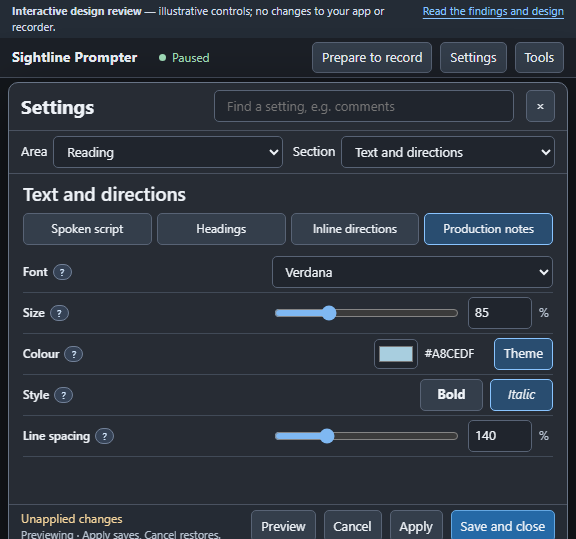
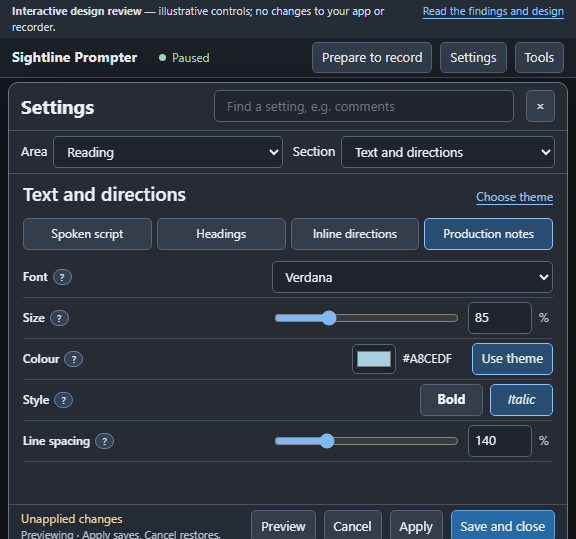
docs: make prototype theme selection and colour reset explicit

Changed region(s): [[0.0312, 0.3562, 0.9688, 0.8609], [0.9375, 0.8015, 0.9688, 0.8312], [0.9375, 0.564, 0.9688, 0.5937]]

diff --git a/docs/design/settings-and-tools-prototype.html b/docs/design/settings-and-tools-prototype.html
@@ -13,6 +13,7 @@
 @media(max-height:670px){.prepare-list{grid-template-columns:1fr 1fr;margin-top:10px}.prepare-step{min-height:64px;gap:6px;padding:7px 9px}.prepare-step .step-state{font-size:11px}.prepare-step .open-label{font-size:11px}}
 @media(max-height:560px){.review-note{min-height:24px;padding:3px 12px;font-size:11px}.appbar{height:40px;padding:4px 12px}.stage{top:64px}.workspace{height:calc(100vh - 64px);padding:4px 8px}.dialog-header{height:48px;flex-basis:48px;padding:6px 12px}.dialog-footer{height:44px;flex-basis:44px;padding:6px 12px}.compact-navigation{flex-basis:43px;padding:5px 12px}.content{padding:8px 14px}.targets{margin:5px 0 7px}.tools{padding:10px}.tool-grid button{min-height:44px}.tools-sub{margin-bottom:7px}.tools-link{margin-top:7px}}
 @media(max-width:560px){.workspace{padding:8px}.review-note{font-size:11px;padding:6px 10px}.review-note a{display:none}.brand{font-size:12px;margin-right:0}.appbar{padding:7px 10px;gap:5px}.appbar .secondary{display:none}.dialog-header{gap:8px}.search{width:190px}.content{padding:10px 12px}.control-row{grid-template-columns:minmax(110px,1fr) minmax(145px,1.35fr);gap:8px}.targets button{font-size:11px;padding:5px 4px}.targets{gap:3px}.hex{display:none}.control-value{gap:5px}.control-value input[type=number]{width:56px;min-width:56px}.dialog-footer{gap:5px}.dialog-footer button{padding:5px 7px;font-size:12px}.save-state{font-size:11px}.save-state small{display:none}.compact-navigation{padding:7px 10px;gap:7px}.compact-navigation label{font-size:11px}.tools{right:12px}.tools .control-row{grid-template-columns:105px 1fr}}
+.theme-link{min-height:0;padding:0;border:0;border-radius:0;background:transparent;color:var(--accent);text-decoration:underline;text-underline-offset:3px}.theme-link:hover{background:transparent;color:var(--text)}.section-heading{display:flex;align-items:baseline;justify-content:space-between;gap:12px}.section-heading .theme-link{flex-shrink:0;font-size:12px}
 @media(prefers-reduced-motion:reduce){*{scroll-behavior:auto!important}}
 </style>
 </head>
@@ -35,7 +36,7 @@
 <script>
 const areas=[
  {id:'prepare',name:'Prepare to record',sections:[['checklist','Recording setup']]},
- {id:'reading',name:'Reading',sections:[['mode','Mode and pace'],['typography','Text and directions'],['background','Background'],['layout','Layout'],['aids','Reading aids'],['screens','Screens and mirroring'],['guide','Head guide']]},
+ {id:'reading',name:'Reading',sections:[['mode','Mode and pace'],['typography','Text and directions'],['background','Theme and background'],['layout','Layout'],['aids','Reading aids'],['screens','Screens and mirroring'],['guide','Head guide']]},
  {id:'voice',name:'Voice',sections:[['engine','Speech engine'],['microphone','Microphone'],['commands','Commands'],['words','Your words']]},
  {id:'recording',name:'Recording',sections:[['takes','Takes'],['sound','Sound check'],['sync','Slate and sync'],['obs','OBS connection'],['obs-recording','OBS recording'],['obs-setup','OBS setup']]},
  {id:'controls',name:'Controls',sections:[['pad','Pad and phone'],['pairing','Phone pairing'],['mappings','Buttons and keys'],['streamdeck','Stream Deck'],['api','AI and API']]},
@@ -45,8 +46,14 @@ const areas=[
 ];
 const targets=[['script','Spoken script'],['headings','Headings'],['inline','Inline directions'],['production','Production notes']];
 const defaults={script:{font:'Segoe UI',size:100,color:null,bold:false,italic:false,spacing:150,visibility:'Normal'},headings:{font:'Follow script',size:125,color:null,bold:true,italic:false,spacing:125,visibility:'Normal'},inline:{font:'Follow script',size:80,color:null,bold:false,italic:true,spacing:125,visibility:'Dimmed'},production:{font:'Follow script',size:55,color:null,bold:false,italic:false,spacing:140,visibility:'Paused only'}};
-const themeColors={script:'#ffffff',headings:'#f1d082',inline:'#c2d3d1',production:'#a8cedf'};
+const themes={
+ 'Standard':{script:'#ffffff',headings:'#f1d082',inline:'#c2d3d1',production:'#a8cedf',background:'#101216'},
+ 'Yellow on dark':{script:'#ffeb80',headings:'#fff4b3',inline:'#d9cf9b',production:'#d4c89f',background:'#101216'},
+ 'High contrast':{script:'#ffffff',headings:'#ffffff',inline:'#ffffff',production:'#ffffff',background:'#000000'},
+ 'Soft cream':{script:'#28231e',headings:'#5c3518',inline:'#5a5148',production:'#4a5666',background:'#f5eddc'}
+};
 let saved={text:structuredClone(defaults),options:{obs:false}},draft=structuredClone(saved),area='reading',section='typography',target='production',reading=false,toolsTab='Prepare',activeTool='typography';
+function selectedTheme(){return themes[draft.options['background-0']??'Standard'];}
 const $=id=>document.getElementById(id),esc=s=>String(s).replaceAll('&','&amp;').replaceAll('<','&lt;').replaceAll('>','&gt;').replaceAll('"','&quot;');
 const labelFor=id=>areas.flatMap(a=>a.sections).find(s=>s[0]===id)?.[1]??id;
 function hint(label,text){return '<button type="button" class="mini-help" aria-label="Help: '+esc(label)+'" data-help="'+esc(text)+'">?</button>';}
@@ -60,12 +67,12 @@ function renderNav(){
  $('area-select').innerHTML=areas.map(a=>'<option value="'+a.id+'"'+(a.id===area?' selected':'')+'>'+a.name+'</option>').join('');$('section-select').innerHTML=areas.find(a=>a.id===area).sections.map(s=>'<option value="'+s[0]+'"'+(s[0]===section?' selected':'')+'>'+s[1]+'</option>').join('');
 }
 function renderContent(){
- const title=labelFor(section),owner=areas.find(a=>a.id===area);let body='<p class="breadcrumb">'+owner.name+'</p><h2>'+title+'</h2>';
+ const title=labelFor(section),owner=areas.find(a=>a.id===area);let body='<p class="breadcrumb">'+owner.name+'</p><div class="section-heading"><h2>'+title+'</h2>'+(section==='typography'?'<button type="button" class="theme-link" data-section="background">Choose theme</button>':'')+'</div>';
  if(section==='typography'){
   const v=draft.text[target];body+='<p class="section-intro">One set of formatting controls for each kind of text.</p><div class="targets" role="tablist" aria-label="Text target">'+targets.map(t=>'<button role="tab" data-target="'+t[0]+'" aria-selected="'+(target===t[0])+'">'+t[1]+'</button>').join('')+'</div>';
   body+=row('Font',select((target==='script'?[]:['Follow script']).concat(['Segoe UI','Verdana','Atkinson Hyperlegible','OpenDyslexic']),v.font,'text-font'),'Choose a font for this text target. Follow script is an explicit choice. A missing font must show a fallback rather than silently fail.');
   body+=row('Size',range('text-size',v.size,40,200,5),'Relative size uses the same percent controls for every target. Inline and production-note size do not change when headings change.');
-  body+=row('Colour','<input id="text-colour" aria-label="Text colour" type="color" value="'+(v.color??themeColors[target])+'"><span class="hex">'+(v.color??themeColors[target]).toUpperCase()+'</span><button id="text-theme" aria-pressed="'+(v.color===null)+'">Theme</button>','The swatch shows the effective colour. Theme restores inheritance for this target only and visibly selects the Theme button.');
+  body+=row('Colour','<input id="text-colour" aria-label="Text colour" type="color" value="'+(v.color??selectedTheme()[target])+'"><span class="hex">'+(v.color??selectedTheme()[target]).toUpperCase()+'</span><button id="text-theme" aria-pressed="'+(v.color===null)+'" title="Use the selected theme colour for this text type">Use theme</button>','Use theme removes a custom colour for this text type only. When selected, it already follows the current theme. Choose theme above opens the overall colour scheme.');
   body+=row('Style','<span class="control-value styles"><button id="text-bold" aria-pressed="'+v.bold+'"><strong>Bold</strong></button><button id="text-italic" aria-pressed="'+v.italic+'"><em>Italic</em></button></span>','Bold and Italic are real on/off controls for all four text targets. Their selected state is visible.');
   body+=row('Line spacing',range('text-spacing',v.spacing,100,250,5),'A percentage of this target’s font size. The slider and number box use the same bounds, step and value.');
   if(target==='inline')body+=row('Visibility',select(['Normal','Dimmed','Hidden'],v.visibility,'text-visibility'),'This affects unquoted inline directions. Quoted spoken words remain readable and use spoken-script styling.');
@@ -80,7 +87,7 @@ const toggleField=(label,value,help)=>({kind:'toggle',label,value,help});
 const rangeField=(label,value,min,max,step,unit='%')=>({kind:'range',label,value,min,max,step,unit});
 const catalogue={
  mode:{intro:'Choose how the script moves. Recorder behaviour has its own explicit settings.',fields:[selectField('Reading mode',['Steady','Voice','Notes'],'Steady'),rangeField('Steady pace',140,60,240,5,'wpm'),rangeField('Start countdown',3,0,10,1,'s'),toggleField('Follow script pacing',true)],actions:['Open script review']},
- background:{intro:'Keep visibility separate from text formatting.',fields:[selectField('Script theme',['Standard','Yellow on dark','High contrast','Soft cream'],'Standard'),rangeField('Background off air',60,0,100,1),rangeField('Background on air',7,0,100,1),rangeField('Text opacity',100,20,100,1),rangeField('Text brightness',100,30,100,1)]},
+ background:{intro:'Choose a colour scheme and see it in the script preview. Custom text colours stay unchanged.',fields:[selectField('Script theme',['Standard','Yellow on dark','High contrast','Soft cream'],'Standard','Changes the preview colours for text using the theme. Choose Use theme in Text and directions to remove a custom colour.'),rangeField('Background off air',60,0,100,1),rangeField('Background on air',7,0,100,1),rangeField('Text opacity',100,20,100,1),rangeField('Text brightness',100,30,100,1)],actions:['Text and directions']},
  layout:{intro:'Position the words against the camera. Typography has the line-spacing controls.',fields:[selectField('Alignment',['Left','Centre'],'Left'),rangeField('Side margins',6,0,35,1),rangeField('Top margin',0,0,60,1),rangeField('Bottom margin',0,0,60,1),rangeField('Reading line',33,5,80,1)]},
  aids:{intro:'Use the aids that make reading comfortable.',fields:[toggleField('Reading marker',true),toggleField('Sentence highlight',true),toggleField('Progress and time',true),toggleField('Focus band',false),rangeField('Focus strength',60,10,90,5),selectField('Text edge',['None','Outline','Shadow'],'None')]},
  screens:{intro:'Window and display choices have one home.',fields:[selectField('Prompter screen',['Current screen','External prompter'],'Current screen'),toggleField('Always on top',false),toggleField('Mirror left / right',false),toggleField('Mirror up / down',false),toggleField('Eye-line strip',false),toggleField('Click-through',false)]},
@@ -114,16 +121,16 @@ const catalogue={
 function genericContent(id){const c=catalogue[id];if(!c)return '<p class="section-intro">This section is mapped in the design review.</p>';let s='<p class="section-intro">'+c.intro+'</p>';c.fields.forEach((f,i)=>{const key=id+'-'+i,value=draft.options[key]??f.value;let control=f.kind==='select'?select(f.options,value,key):f.kind==='range'?range(key,value,f.min,f.max,f.step,f.unit):'<label class="switch-label"><input id="'+key+'" type="checkbox"'+(value?' checked':'')+'><span>'+(value?'On':'Off')+'</span></label>';s+=row(f.label,control,f.help??'This uses the same control behaviour and save rules as other Settings values.');});if(c.actions)s+='<div class="generic-actions">'+c.actions.map(a=>'<button data-example-action="'+esc(a)+'">'+a+'</button>').join('')+'</div>';if(c.note)s+='<p class="generic-note">'+c.note+'</p>';return s;}
 function wireRange(id,commit){const a=$(id),b=$(id+'-number');if(!a||!b)return;function set(value){value=Number(value);if(!Number.isFinite(value))return;value=Math.min(Number(a.max),Math.max(Number(a.min),value));value=Number((Math.round((value-Number(a.min))/Number(a.step))*Number(a.step)+Number(a.min)).toFixed(3));a.value=b.value=value;commit(value);}a.addEventListener('input',()=>set(a.value));b.addEventListener('change',()=>set(b.value));}
 function wireFields(){
- if(section==='typography'){$('text-font').onchange=e=>{draft.text[target].font=e.target.value;changed();};wireRange('text-size',v=>{draft.text[target].size=v;changed();});wireRange('text-spacing',v=>{draft.text[target].spacing=v;changed();});$('text-colour').oninput=e=>{draft.text[target].color=e.target.value;changed();$('text-theme').setAttribute('aria-pressed','false');$('text-colour').nextElementSibling.textContent=e.target.value.toUpperCase();};$('text-theme').onclick=()=>{draft.text[target].color=null;renderContent();};for(const style of ['bold','italic'])$('text-'+style).onclick=()=>{draft.text[target][style]=!draft.text[target][style];renderContent();};if($('text-visibility'))$('text-visibility').onchange=e=>{draft.text[target].visibility=e.target.value;changed();};
+ if(section==='typography'){$('text-font').onchange=e=>{draft.text[target].font=e.target.value;changed();};wireRange('text-size',v=>{draft.text[target].size=v;changed();});wireRange('text-spacing',v=>{draft.text[target].spacing=v;changed();});$('text-colour').oninput=e=>{draft.text[target].color=e.target.value;changed();$('text-theme').setAttribute('aria-pressed','false');$('text-colour').nextElementSibling.textContent=e.target.value.toUpperCase();};$('text-theme').onclick=()=>{const inherited=draft.text[target].color===null;draft.text[target].color=null;renderContent();$('text-theme').focus();toast(inherited?'Already using the theme colour. Choose theme to change the colour scheme.':'Custom colour removed. This text now follows the selected theme.');};for(const style of ['bold','italic'])$('text-'+style).onclick=()=>{draft.text[target][style]=!draft.text[target][style];renderContent();};if($('text-visibility'))$('text-visibility').onchange=e=>{draft.text[target].visibility=e.target.value;changed();};
  }else{catalogue[section]?.fields.forEach((f,i)=>{const id=section+'-'+i,e=$(id);if(f.kind==='range')wireRange(id,v=>{draft.options[id]=v;changed();});else e.onchange=()=>{draft.options[id]=f.kind==='toggle'?e.checked:e.value;if(id==='obs-0')draft.options.obs=e.checked;if(f.kind==='toggle')e.nextElementSibling.textContent=e.checked?'On':'Off';changed();};});}
 }
 function previewHTML(){return '<h3>Script view preview</h3><div class="mode" role="group" aria-label="Preview state"><button data-reading="false" aria-pressed="'+!reading+'">Paused</button><button data-reading="true" aria-pressed="'+reading+'">Reading</button></div><div class="script-preview"><h4 class="sample-heading">Ready to record</h4><div class="sample-production">Settle into position. Check your camera and microphone.</div><p class="sample-script">Look towards the lens. Speak at your own pace.<span class="sample-inline">[smile]</span>Your words stay with you.</p></div><p class="preview-explainer">'+(reading?'Reading: production notes are hidden.':'Paused: preparation notes are visible.')+'</p><div class="preview-footer">Example only · no live camera or audio.</div>';}
 function applySampleStyle(e,v){const font=v.font==='Follow script'?draft.text.script.font:v.font;e.style.fontFamily='"'+font+'", "Segoe UI", sans-serif';e.style.fontSize=(v.size/100*19)+'px';e.style.lineHeight=v.spacing/100;e.style.fontWeight=v.bold?'700':'400';e.style.fontStyle=v.italic?'italic':'normal';}
-function renderPreview(){for(const host of [$('preview'),$('small-preview')]){host.innerHTML=previewHTML();for(const [key,sel] of [['script','.sample-script'],['headings','.sample-heading'],['inline','.sample-inline'],['production','.sample-production']]){const e=host.querySelector(sel),v=draft.text[key];applySampleStyle(e,v);e.style.color=v.color??themeColors[key];if(key==='production')e.hidden=reading;if(key==='inline'){e.hidden=v.visibility==='Hidden';e.style.opacity=v.visibility==='Dimmed'?'.65':'1';}}}}
+function renderPreview(){const theme=selectedTheme();for(const host of [$('preview'),$('small-preview')]){host.innerHTML=previewHTML();host.querySelector('.script-preview').style.background=theme.background;for(const [key,sel] of [['script','.sample-script'],['headings','.sample-heading'],['inline','.sample-inline'],['production','.sample-production']]){const e=host.querySelector(sel),v=draft.text[key];applySampleStyle(e,v);e.style.color=v.color??theme[key];if(key==='production')e.hidden=reading;if(key==='inline'){e.hidden=v.visibility==='Hidden';e.style.opacity=v.visibility==='Dimmed'&&draft.options['background-0']!=='High contrast'?'.65':'1';}}}}
 let toastTimer;function toast(text){$('toast').textContent=text;$('toast').hidden=false;clearTimeout(toastTimer);toastTimer=setTimeout(()=>$('toast').hidden=true,3200);}
 function closeSettings(){draft=structuredClone(saved);changed();$('settings').hidden=true;$('closed').hidden=false;}
 function save(close){saved=structuredClone(draft);changed();toast('Design preview: changes applied to this mock only.');if(close){$('settings').hidden=true;$('closed').hidden=false;}}
-document.addEventListener('click',e=>{const b=e.target.closest('button');if(!b)return;if(b.dataset.area)navigate(areas.find(a=>a.id===b.dataset.area).sections[0][0]);if(b.dataset.section)navigate(b.dataset.section);if(b.dataset.target){target=b.dataset.target;renderContent();}if(b.dataset.reading){reading=b.dataset.reading==='true';renderPreview();}if(b.dataset.exampleAction){const action=b.dataset.exampleAction;const routes={'Open Components':'components','Phone pairing':'pairing','Prepare to record':'checklist','Open sound check':'sound'};if(routes[action])navigate(routes[action]);else toast('Design example: '+action+'. No live action was sent.');}if(b.dataset.help){const p=$('help');p.textContent=b.dataset.help;p.showPopover();const r=b.getBoundingClientRect();p.style.left=Math.max(10,Math.min(r.left,innerWidth-330))+'px';p.style.top=Math.min(r.bottom+7,innerHeight-p.offsetHeight-10)+'px';}});
+document.addEventListener('click',e=>{const b=e.target.closest('button');if(!b)return;if(b.dataset.area)navigate(areas.find(a=>a.id===b.dataset.area).sections[0][0]);if(b.dataset.section)navigate(b.dataset.section);if(b.dataset.target){target=b.dataset.target;renderContent();}if(b.dataset.reading){reading=b.dataset.reading==='true';renderPreview();}if(b.dataset.exampleAction){const action=b.dataset.exampleAction;const routes={'Open Components':'components','Phone pairing':'pairing','Prepare to record':'checklist','Open sound check':'sound','Text and directions':'typography'};if(routes[action])navigate(routes[action]);else toast('Design example: '+action+'. No live action was sent.');}if(b.dataset.help){const p=$('help');p.textContent=b.dataset.help;p.showPopover();const r=b.getBoundingClientRect();p.style.left=Math.max(10,Math.min(r.left,innerWidth-330))+'px';p.style.top=Math.min(r.bottom+7,innerHeight-p.offsetHeight-10)+'px';}});
 $('navigation').addEventListener('keydown',e=>{if(!['ArrowDown','ArrowUp','Home','End'].includes(e.key))return;const buttons=[...$('navigation').querySelectorAll('button')];const i=buttons.indexOf(e.target);if(i<0)return;e.preventDefault();const n=e.key==='Home'?0:e.key==='End'?buttons.length-1:Math.max(0,Math.min(buttons.length-1,i+(e.key==='ArrowDown'?1:-1)));buttons[n].focus();});
 $('area-select').onchange=e=>navigate(areas.find(a=>a.id===e.target.value).sections[0][0]);$('section-select').onchange=e=>navigate(e.target.value);
 $('apply').onclick=()=>save(false);$('save-close').onclick=()=>save(true);$('cancel').onclick=closeSettings;$('close-settings').onclick=()=>{if(JSON.stringify(saved)!==JSON.stringify(draft))$('unsaved-dialog').showModal();else closeSettings();};$('unsaved-save').onclick=()=>{$('unsaved-dialog').close();save(true);};$('unsaved-discard').onclick=()=>{$('unsaved-dialog').close();closeSettings();};$('unsaved-keep').onclick=()=>$('unsaved-dialog').close();$('settings-button').onclick=()=>navigate(section);$('reopen').onclick=()=>navigate(section);$('prepare-button').onclick=()=>navigate('checklist');$('show-preview').onclick=()=>{$('preview-dialog').showModal();renderPreview();};$('close-preview').onclick=()=>$('preview-dialog').close();

diff --git a/docs/design/SETTINGS-AND-TOOLS-REDESIGN.md b/docs/design/SETTINGS-AND-TOOLS-REDESIGN.md
@@ -21,7 +21,7 @@ starts with those jobs, then gives occasional configuration a permanent home.
 | --- | --- | --- |
 | Appearance controls are hard to find | Comment was renamed and moved; related typography still spans Text, Spacing and Directions. | One Text and directions workspace, with four explicit text targets. Search accepts comment, cue, instruction and production note. |
 | Production-note controls disappear | In the running Preview 03 Settings document, the production-note fieldset existed but its size/colour/spacing inputs were absent. | Give Settings stable ownership of its controls. Tools shares their values and actions rather than moving the same DOM nodes between panels. Reproduce the handoff sequence before claiming a fix. |
-| Theme buttons appear inactive | Reported in the same preview; the picker was missing. Isolated tests had passed and did not reproduce this actual-use sequence. | The swatch always shows the effective colour. Theme visibly selects theme inheritance, updates the swatch and resets only the selected target. |
+| Theme buttons appear inactive | The app preview lost its picker; the mock also labelled a colour reset simply Theme, making it look like a theme chooser. | Use theme explicitly restores the selected text colour. Choose theme opens Theme and background, where the selected palette visibly changes the script preview. |
 | Note formatting is incomplete | Independent font choice and an italic option were not implemented. | All four text targets use the same complete typography component, including font, size, colour, bold, italic and line spacing. |
 | Controls move onto other pages | Pagination measures whatever fits at the current window height. | Fixed named sections with explicit membership. Resizing never reallocates a control to another section. |
 | Navigation text wraps or spills | Conflicting wrapping rules and long generated destination labels. | Remove generated page navigation. Choose a named section directly. Keep section names short and show the current location. |
@@ -45,7 +45,7 @@ Section selectors instead of squeezing or clipping the navigation.
 | Prepare to record | Reading; Directions; Layout; Framing; Sound; Recorder | A route into the actual controls, with current state and a return to the checklist. No second copy of settings. |
 | Reading | Mode and pace | Steady/Voice/Notes, steady WPM, responsiveness link, start countdown and script pacing. |
 | Reading | Text and directions | Spoken script, headings, inline directions and production notes. Complete typography controls for each target. |
-| Reading | Background | Off-air/on-air backing, text opacity and brightness. Theme choice is here, with a link from typography. |
+| Reading | Theme and background | Theme palette, off-air/on-air backing, text opacity and brightness. Choose theme links here from typography. |
 | Reading | Layout | Alignment, margins, reading-line position and text-area preview. Line spacing lives with typography. |
 | Reading | Reading aids | Sentence highlight, focus band/strength, reading marker, progress/time and text edge. |
 | Reading | Screens and mirroring | Display selection, fullscreen, always on top, horizontal/vertical mirror, eye-line strip and click-through. |
@@ -81,14 +81,14 @@ discoverability. Tools is the quick operating surface, not another settings map.
 | --- | --- |
 | Slider and number | Same value, same unit, same bounds and step; arrows and keyboard work identically. Values outside range show an inline explanation. |
 | Size | Explicitly labelled relative size. Script is the base; other targets state their relationship to it. Dimming never silently changes font size. |
-| Colour | Effective swatch, colour picker and Theme button on every text target. A selected Theme button means inheritance; a custom colour clears that state. |
+| Colour | Effective swatch, colour picker and Use theme button on every text target. A selected button means inheritance; a custom colour clears that state. Choose theme opens the palette selector. |
 | Font | Same selector on every target. Follow script is an explicit option for headings/directions/notes. A missing font is identified and a fallback is shown. |
 | Text style | Matching Bold and Italic toggle buttons, with visible selected state, accessible names and keyboard operation. |
 | Line spacing | A percentage of the selected text target's font size everywhere. Paragraph spacing, if later added, must be a different control. |
 | Visibility | Explicit choices with a local preview. Inline cue visibility is separate from the automatic paused/delivering behaviour of production notes. |
 | Switch | Stable On/Off state, clear label and optional contextual help. A missing dependency shows a reason and a setup link. |
 | Action | A verb that says what will happen. Connect, Test, Install and Start recording are actions, not preference switches. |
-| Reset | Reset this section affects only that section. Theme affects only colour. Restore defaults is a separately confirmed whole-app action. |
+| Reset | Reset this section affects only that section. Use theme resets only the selected text colour. Changing the palette preserves custom colours. Restore defaults is a separately confirmed whole-app action. |
 | Help | The same small ? pill beside the label; hover, focus and click/touch reveal the same explanation. |
 
 ## Typography completeness

diff --git a/docs/design/settings-and-tools-gallery.md b/docs/design/settings-and-tools-gallery.md
@@ -9,7 +9,7 @@ recorder or external service.
 
 ## Production notes
 
-One complete formatting component: Font, Size, Colour with Theme reset,
+One complete formatting component: Font, Size, Colour with Use theme reset,
 Bold, Italic and Line spacing. The selected target is always named. The preview
 can switch between paused and reading states.
 
@@ -21,6 +21,14 @@ The same controls, in the same order. Visibility affects inline cues; it does
 not change the automatic behaviour of production notes.
 
 ![Inline directions use the same formatting controls](images/typography-inline-directions.png)
+
+## Theme and background
+
+Choose theme opens the palette selector from text formatting. The four
+palettes change the script preview; custom text colours are preserved.
+Use theme removes a custom colour for the selected text type only.
+
+![Theme selection updates the script preview](images/theme-and-background.png)
 
 ## Prepare to record
 
@@ -49,6 +57,8 @@ internal settings scrolling.
 
 The prototype was checked at 1280 × 820, 1024 × 600, 680 × 600 and 576 × 539.
 All 33 sections and four formatting targets fit the content area. Tools stayed
-inside the viewport in all three groups. Font, italic, swatch/Theme state,
+inside the viewport in all three groups. Font, italic, swatch/Use theme state,
 paired size inputs, note hiding, search and pending-change handling were
-checked. These checks validate the mock, not the still-unfinished application.
+checked. All four theme palettes, per-target colour resets and Apply/Cancel
+were checked, including opening the downloaded HTML file directly. These
+checks validate the mock, not the still-unfinished application.

diff --git a/docs/FEATURE-GRID-REVIEWS.md b/docs/FEATURE-GRID-REVIEWS.md
@@ -8,6 +8,7 @@ no-feature-impact decision here; an old unchanged entry is not a new review.
 | Date | Change reviewed | Matrix outcome |
 | --- | --- | --- |
 | 1 November 2026 | Deployment guards, generated metadata and website sync | No product capability change. The reference remains Preview 02; Preview 03 defects and the proposed redesign remain excluded as supported additions. |
+| 1 November 2026 | Design mock theme chooser and colour-reset clarification | Prototype only; no installed app or supported feature change. The matrix remains based on Preview 02. Updated the design findings and screenshot gallery; no live help or website capability update is needed. |
 
 Automated guards check consistency. They cannot prove a capability or hardware
 claim; review the exact build before publication.
